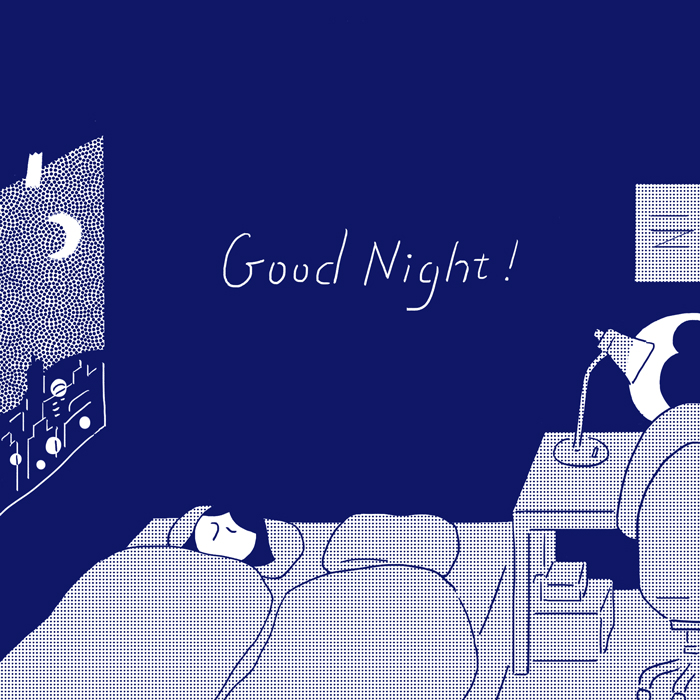
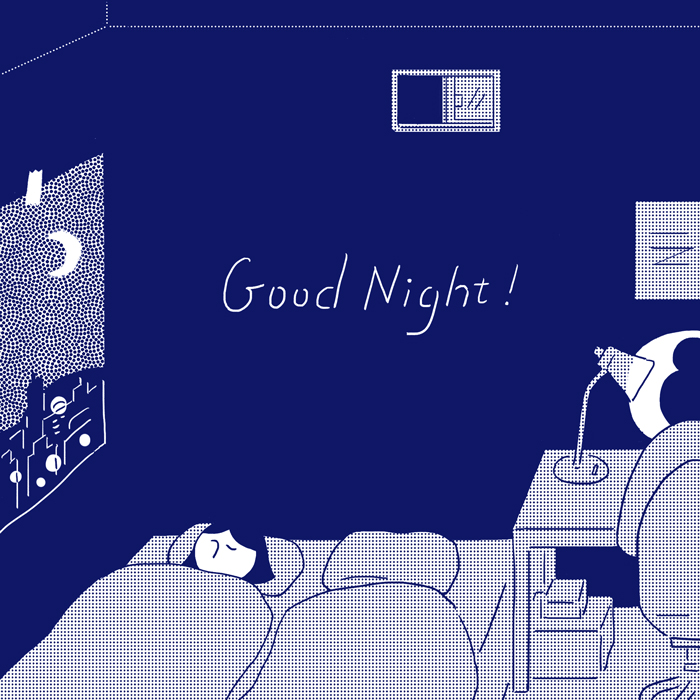
fire alarm

diff --git a/index.html b/index.html
@@ -4,15 +4,15 @@
 <head>
     <meta charset="UTF-8" />
     <meta name="viewport" content="width=device-width, initial-scale=1.0" />
-    <meta name="description" content="住在3坪雅房的頂樓加蓋，不要提買房、不要談未來，小確信即永恆，今天只要好好感受活著的片刻。">
+    <meta name="description" content="睡在台北的縫隙間，不要提買房、不要談未來，小確信即永恆，今天只要好好感受活著的片刻。">
     <!-- Facebook Opengraph -->
     <meta property="og:url" content="" />
     <meta property="og:locale" content="zh_TW" />
     <meta property="og:type" content="website" />
     <meta property="og:title" content="台北租屋用品店" />
-    <meta property="og:description" content="住在3坪雅房的頂樓加蓋，不要提買房、不要談未來，小確信即永恆，今天只要好好感受活著的片刻。" />
+    <meta property="og:description" content="睡在台北的縫隙間，不要提買房、不要談未來，小確信即永恆，今天只要好好感受活著的片刻。" />
     <meta property="og:image" content="https://tsai-yu-yu.github.io/living-in-taipei/img/img_facebook_banner_1200x630.png"/>
-    <meta property="og:image:alt" content="住在3坪雅房的頂樓加蓋，不要提買房、不要談未來，小確信即永恆，今天只要好好感受活著的片刻。" />
+    <meta property="og:image:alt" content="睡在台北的縫隙間，不要提買房、不要談未來，小確信即永恆，今天只要好好感受活著的片刻。" />
     <meta property="og:image:type" content="image/png" />
     <meta property="og:image:width" content="1200" />
     <meta property="og:image:height" content="630" />
@@ -143,13 +143,13 @@
         <div class="container">
             <div class="row">
                 <div class="product-box column">
-                    <a href="./products/heatDectector.html">
+                    <a href="./products/fireAlarm.html">
                         <div class="two-image">
                             <div class="product-cover">
-                                <img src="./img/img_products_heatDetector.png" alt="火警探測器" />
+                                <img src="./img/img_products_fireAlarm.png" alt="火警探測器" />
                             </div>
                             <div class="product-hover">
-                                <img src="./img/img_products_heatDetector_hover.png" alt="火警探測器" />
+                                <img src="./img/img_products_fireAlarm_hover.png" alt="火警探測器" />
                             </div>
                         </div>
                         <h4 class="chapter">木板隔間與火災的距離之差動式火警探測器</h4>

diff --git a/products/fireAlarm.html b/products/fireAlarm.html
@@ -59,7 +59,7 @@
         <div class="container">
             <div class="row">
                 <div class="column">
-                    <img src="../img/img_products_heatDetector_hover@2x.png" alt="火警探測器" />
+                    <img src="../img/img_products_fireAlarm_hover@2x.png" alt="火警探測器" />
                 </div>
 
                 <div class="info-box column">
@@ -87,16 +87,16 @@
     <section>
         <div class="container">
             <div class="graphic-novel">
-                <img src="../img/img_header_bannerV1.png" alt="" />
+                <img src="../img/img_products_fireAlarm_panel_1.png" alt="在小吃店吃麵看到電視在播今日頭條" />
             </div>
             <div class="graphic-novel">
-                <img src="../img/img_header_bannerV1.png" alt="" />
+                <img src="../img/img_products_fireAlarm_panel_2.png" alt="高雄鹽埕「城中城大樓」大火 46死 41傷" />
             </div>
             <div class="graphic-novel">
-                <img src="../img/img_header_bannerV1.png" alt="" />
+                <img src="../img/img_products_fireAlarm_panel_3.png" alt="頂樓出口被封住！怎逃？家屬痛批居委會" />
             </div>
             <div class="graphic-novel">
-                <img src="../img/img_header_bannerV1.png" alt="" />
+                <img src="../img/img_products_fireAlarm_panel_4.png" alt="無能為力的繼續吃麵" />
             </div>
         </div>
 

diff --git a/products/book.html b/products/book.html
@@ -109,13 +109,13 @@
         <div class="container">
             <div class="row">
                 <div class="product-box column">
-                    <a href="./heatDectector.html">
+                    <a href="./fireAlarm.html">
                         <div class="two-image">
                             <div class="product-cover">
-                                <img src="../img/img_products_heatDetector.png" alt="火警探測器" />
+                                <img src="../img/img_products_fireAlarm.png" alt="火警探測器" />
                             </div>
                             <div class="product-hover">
-                                <img src="../img/img_products_heatDetector_hover.png" alt="火警探測器" />
+                                <img src="../img/img_products_fireAlarm_hover.png" alt="火警探測器" />
                             </div>
                         </div>
                         <h4 class="chapter">木板隔間與火災的距離之差動式火警探測器</h4>

diff --git a/products/earplugs.html b/products/earplugs.html
@@ -111,13 +111,13 @@
         <div class="container">
             <div class="row">
                 <div class="product-box column">
-                    <a href="./heatDectector.html">
+                    <a href="./fireAlarm.html">
                         <div class="two-image">
                             <div class="product-cover">
-                                <img src="../img/img_products_heatDetector.png" alt="火警探測器" />
+                                <img src="../img/img_products_fireAlarm.png" alt="火警探測器" />
                             </div>
                             <div class="product-hover">
-                                <img src="../img/img_products_heatDetector_hover.png" alt="火警探測器" />
+                                <img src="../img/img_products_fireAlarm_hover.png" alt="火警探測器" />
                             </div>
                         </div>
                         <h4 class="chapter">木板隔間與火災的距離之差動式火警探測器</h4>

diff --git a/products/poster.html b/products/poster.html
@@ -109,13 +109,13 @@
         <div class="container">
             <div class="row">
                 <div class="product-box column">
-                    <a href="./heatDectector.html">
+                    <a href="./fireAlarm.html">
                         <div class="two-image">
                             <div class="product-cover">
-                                <img src="../img/img_products_heatDetector.png" alt="火警探測器" />
+                                <img src="../img/img_products_fireAlarm.png" alt="火警探測器" />
                             </div>
                             <div class="product-hover">
-                                <img src="../img/img_products_heatDetector_hover.png" alt="火警探測器" />
+                                <img src="../img/img_products_fireAlarm_hover.png" alt="火警探測器" />
                             </div>
                         </div>
                         <h4 class="chapter">木板隔間與火災的距離之差動式火警探測器</h4>

diff --git a/products/waterFilterPitcher.html b/products/waterFilterPitcher.html
@@ -108,13 +108,13 @@
         <div class="container">
             <div class="row">
                 <div class="product-box column">
-                    <a href="./heatDectector.html">
+                    <a href="./fireAlarm.html">
                         <div class="two-image">
                             <div class="product-cover">
-                                <img src="../img/img_products_heatDetector.png" alt="火警探測器" />
+                                <img src="../img/img_products_fireAlarm.png" alt="火警探測器" />
                             </div>
                             <div class="product-hover">
-                                <img src="../img/img_products_heatDetector_hover.png" alt="火警探測器" />
+                                <img src="../img/img_products_fireAlarm_hover.png" alt="火警探測器" />
                             </div>
                         </div>
                         <h4 class="chapter">木板隔間與火災的距離之差動式火警探測器</h4>
